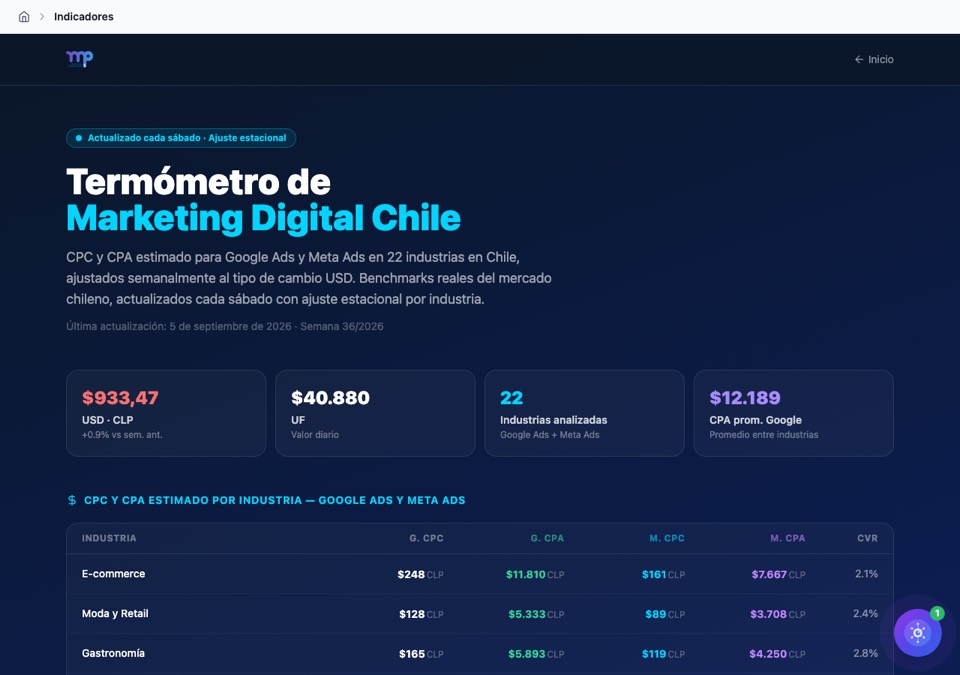
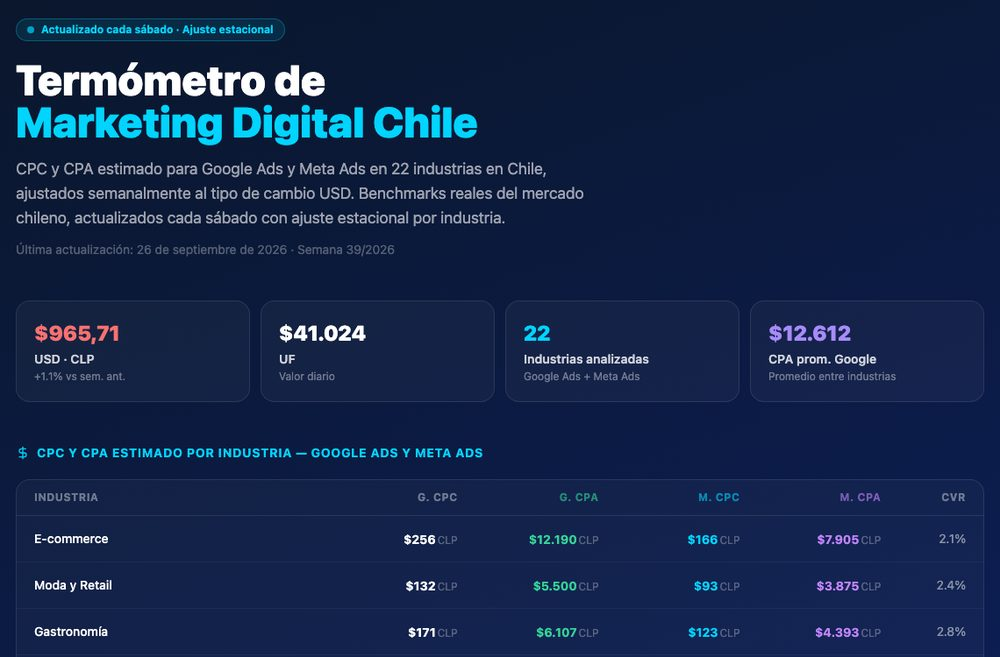
fix(agentes-ia, geo-chile): menú del sitio, sin desborde en celular (franjas de 30 columnas fluidas), capturas completas, breadcrumb único con etiquetas correctas, termómetro actualizado

diff --git a/app/agentes-ia/page.tsx b/app/agentes-ia/page.tsx
@@ -8,10 +8,10 @@
 import { Metadata } from "next";
 import Link from "next/link";
 import Image from "next/image";
+import SiteHeader from "@/components/SiteHeader";
 import {
   createMetadata,
   createFAQPageSchema,
-  createBreadcrumbSchema,
 } from "@/lib/metadata";
 import inventario from "@/data/agentes-ia.json";
 import evidencia from "@/data/agentes-evidencia.json";
@@ -118,9 +118,10 @@ function corto(n: string) {
 function Franja({ id, grande = false }: { id: string; grande?: boolean }) {
   const dias = EV.agentes[id]?.dias || {};
   const ok = Object.values(dias).filter((v) => v === "ok").length;
+  // 30 columnas iguales: la franja se adapta al ancho disponible y nunca desborda
   return (
     <div
-      className="flex gap-[3px]"
+      className={`grid grid-cols-[repeat(30,minmax(0,1fr))] ${grande ? "gap-[3px] max-w-[34rem]" : "gap-[2px] sm:gap-[3px]"}`}
       role="img"
       aria-label={`Registro de 30 días: ${ok} días con ejecución exitosa`}
     >
@@ -128,7 +129,7 @@ function Franja({ id, grande = false }: { id: string; grande?: boolean }) {
         <span
           key={d}
           title={`${d}: ${dias[d] === "ok" ? "ejecución exitosa" : dias[d] === "fallo" ? "falló" : "sin ejecución"}`}
-          className={`${grande ? "h-3.5 w-3.5 sm:h-4 sm:w-4" : "h-2.5 w-2.5"} shrink-0 rounded-[3px] ${
+          className={`aspect-square rounded-[2px] sm:rounded-[3px] ${
             dias[d] === "ok"
               ? "bg-[#16A34A]"
               : dias[d] === "fallo"
@@ -217,10 +218,6 @@ export default function AgentesIAPage() {
       },
     })),
   };
-  const breadcrumb = createBreadcrumbSchema([
-    { name: "Inicio", url: "https://www.mulleryperez.cl" },
-    { name: "Agentes de IA", url: "https://www.mulleryperez.cl/agentes-ia" },
-  ]);
   const faqSchema = createFAQPageSchema(
     faqs.map((f) => ({ question: f.q, answer: f.a })),
   );
@@ -233,28 +230,15 @@ export default function AgentesIAPage() {
       />
       <script
         type="application/ld+json"
-        dangerouslySetInnerHTML={{ __html: JSON.stringify(breadcrumb) }}
-      />
-      <script
-        type="application/ld+json"
         dangerouslySetInnerHTML={{ __html: JSON.stringify(faqSchema) }}
       />
 
+      <SiteHeader />
       <div className="min-h-screen bg-[#F7F7FB] text-[#1B1740]">
         {/* Hero: el tablero es la pieza central */}
         <section className="bg-[#1B1740] text-white pt-28 pb-16 px-6">
           <div className="max-w-6xl mx-auto">
-            <nav
-              className="mb-10 text-sm text-indigo-200"
-              aria-label="Breadcrumb"
-            >
-              <Link href="/" className="hover:text-white">
-                Inicio
-              </Link>
-              <span className="mx-2 text-indigo-400">/</span>
-              <span className="text-white">Agentes de IA</span>
-            </nav>
-            <div className="grid lg:grid-cols-[1fr_1.15fr] gap-12 items-start">
+            <div className="grid lg:grid-cols-[1fr_1.15fr] gap-12 items-start [&>*]:min-w-0">
               <div>
                 <h1 className="text-4xl md:text-[3.25rem] font-black leading-[1.05] tracking-tight mb-6">
                   {activos.length} agentes de IA trabajando hoy. Este es su
@@ -289,25 +273,14 @@ export default function AgentesIAPage() {
                   <span className="font-bold">Registro de ejecuciones</span>
                   <span className="text-sm text-slate-500">{rango}</span>
                 </figcaption>
-                <div className="overflow-x-auto -mx-1 px-1">
-                  <table className="w-full text-xs">
-                    <tbody>
-                      {activos.map((a) => (
-                        <tr key={a.id}>
-                          <th
-                            scope="row"
-                            className="text-left font-medium text-slate-600 pr-3 py-[3px] whitespace-nowrap"
-                          >
-                            {corto(a.nombre)}
-                          </th>
-                          <td className="py-[3px]">
-                            <Franja id={a.id} />
-                          </td>
-                        </tr>
-                      ))}
-                    </tbody>
-                  </table>
-                </div>
+                <ul className="space-y-[5px]">
+                  {activos.map((a) => (
+                    <li key={a.id} className="grid grid-cols-[minmax(0,7.5rem)_1fr] sm:grid-cols-[minmax(0,13rem)_1fr] items-center gap-3 text-xs">
+                      <span className="truncate font-medium text-slate-600" title={a.nombre}>{corto(a.nombre)}</span>
+                      <Franja id={a.id} />
+                    </li>
+                  ))}
+                </ul>
                 <div className="flex flex-wrap gap-4 mt-4 text-xs text-slate-500">
                   <span className="flex items-center gap-1.5">
                     <span className="h-2.5 w-2.5 rounded-[3px] bg-[#16A34A]" />
@@ -349,7 +322,7 @@ export default function AgentesIAPage() {
                       src={p.img}
                       alt={`Captura: ${p.agente}`}
                       fill
-                      className="object-cover object-top"
+                      className="object-contain object-top p-3"
                       sizes="(min-width: 768px) 50vw, 100vw"
                     />
                   </div>
@@ -386,7 +359,7 @@ export default function AgentesIAPage() {
                       return (
                         <li
                           key={a.id}
-                          className="py-5 grid md:grid-cols-[1.4fr_1fr] gap-4 md:gap-10 items-center"
+                          className="py-5 grid md:grid-cols-[1.4fr_1fr] gap-4 md:gap-10 items-center [&>*]:min-w-0"
                         >
                           <div>
                             <p className="font-bold">{a.nombre}</p>
@@ -402,7 +375,7 @@ export default function AgentesIAPage() {
                               </Link>
                             )}
                           </div>
-                          <div className="tabular-nums overflow-x-auto">
+                          <div className="tabular-nums min-w-0">
                             <Franja id={a.id} grande />
                             <p className="text-sm text-slate-600 mt-2">
                               {a.frecuencia}.{" "}
@@ -456,7 +429,7 @@ export default function AgentesIAPage() {
                       src={t.imagen}
                       alt={`${t.nombre} de Muller y Pérez`}
                       fill
-                      className="object-cover object-top"
+                      className="object-contain object-top p-3"
                       sizes="(min-width: 768px) 50vw, 100vw"
                     />
                   </div>

diff --git a/app/servicios/geo-chile/page.tsx b/app/servicios/geo-chile/page.tsx
@@ -9,11 +9,11 @@
 import { Metadata } from "next";
 import Link from "next/link";
 import Image from "next/image";
+import SiteHeader from "@/components/SiteHeader";
 import {
   createMetadata,
   createServiceSchema,
   createFAQPageSchema,
-  createBreadcrumbSchema,
 } from "@/lib/metadata";
 
 export const metadata: Metadata = createMetadata({
@@ -141,14 +141,6 @@ export default function GEOChilePage() {
       text: p.que,
     })),
   };
-  const breadcrumbSchema = createBreadcrumbSchema([
-    { name: "Inicio", url: "https://www.mulleryperez.cl" },
-    { name: "Servicios", url: "https://www.mulleryperez.cl/servicios" },
-    {
-      name: "GEO Chile",
-      url: "https://www.mulleryperez.cl/servicios/geo-chile",
-    },
-  ]);
   const faqSchema = createFAQPageSchema(
     faqs.map((f) => ({ question: f.q, answer: f.a })),
   );
@@ -165,31 +157,14 @@ export default function GEOChilePage() {
       />
       <script
         type="application/ld+json"
-        dangerouslySetInnerHTML={{ __html: JSON.stringify(breadcrumbSchema) }}
-      />
-      <script
-        type="application/ld+json"
         dangerouslySetInnerHTML={{ __html: JSON.stringify(faqSchema) }}
       />
 
+      <SiteHeader />
       <div className="min-h-screen bg-[#F7F7FB] text-[#1B1740]">
         {/* Hero */}
         <section className="bg-[#1B1740] text-white pt-28 pb-20 px-6">
           <div className="max-w-6xl mx-auto">
-            <nav
-              className="mb-10 text-sm text-indigo-200"
-              aria-label="Breadcrumb"
-            >
-              <Link href="/" className="hover:text-white">
-                Inicio
-              </Link>
-              <span className="mx-2 text-indigo-400">/</span>
-              <Link href="/servicios" className="hover:text-white">
-                Servicios
-              </Link>
-              <span className="mx-2 text-indigo-400">/</span>
-              <span className="text-white">GEO Chile</span>
-            </nav>
             <div className="grid lg:grid-cols-[1.1fr_1fr] gap-12 items-end">
               <div>
                 <h1 className="text-4xl md:text-[3.25rem] font-black leading-[1.05] tracking-tight mb-6">

diff --git a/app/components/Breadcrumbs.tsx b/app/components/Breadcrumbs.tsx
@@ -45,7 +45,11 @@ export default function Breadcrumbs() {
     'juega-aprende': 'Juega y Aprende',
     'reporte-competencia': 'Reporte Competencia',
     'benchmarks': 'Benchmarks 2025',
-    'planes': 'Planes'
+    'planes': 'Planes',
+    'agentes-ia': 'Agentes de IA',
+    'servicios': 'Servicios',
+    'geo-chile': 'GEO Chile',
+    'seo-chile': 'SEO Chile'
   }
 
   // Construir breadcrumbs
